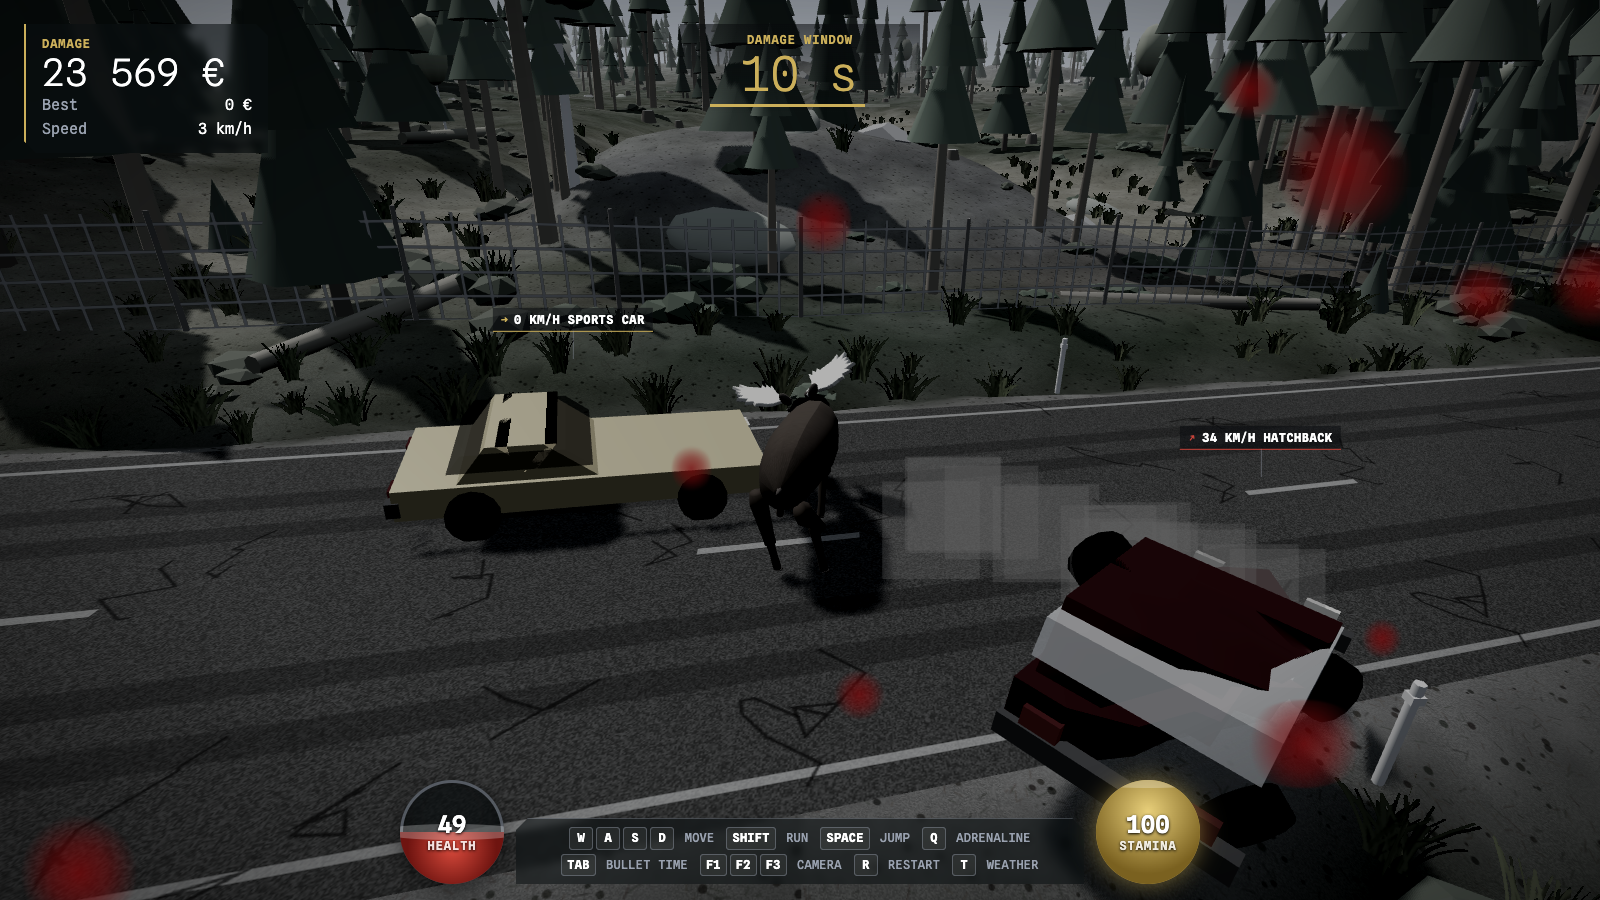
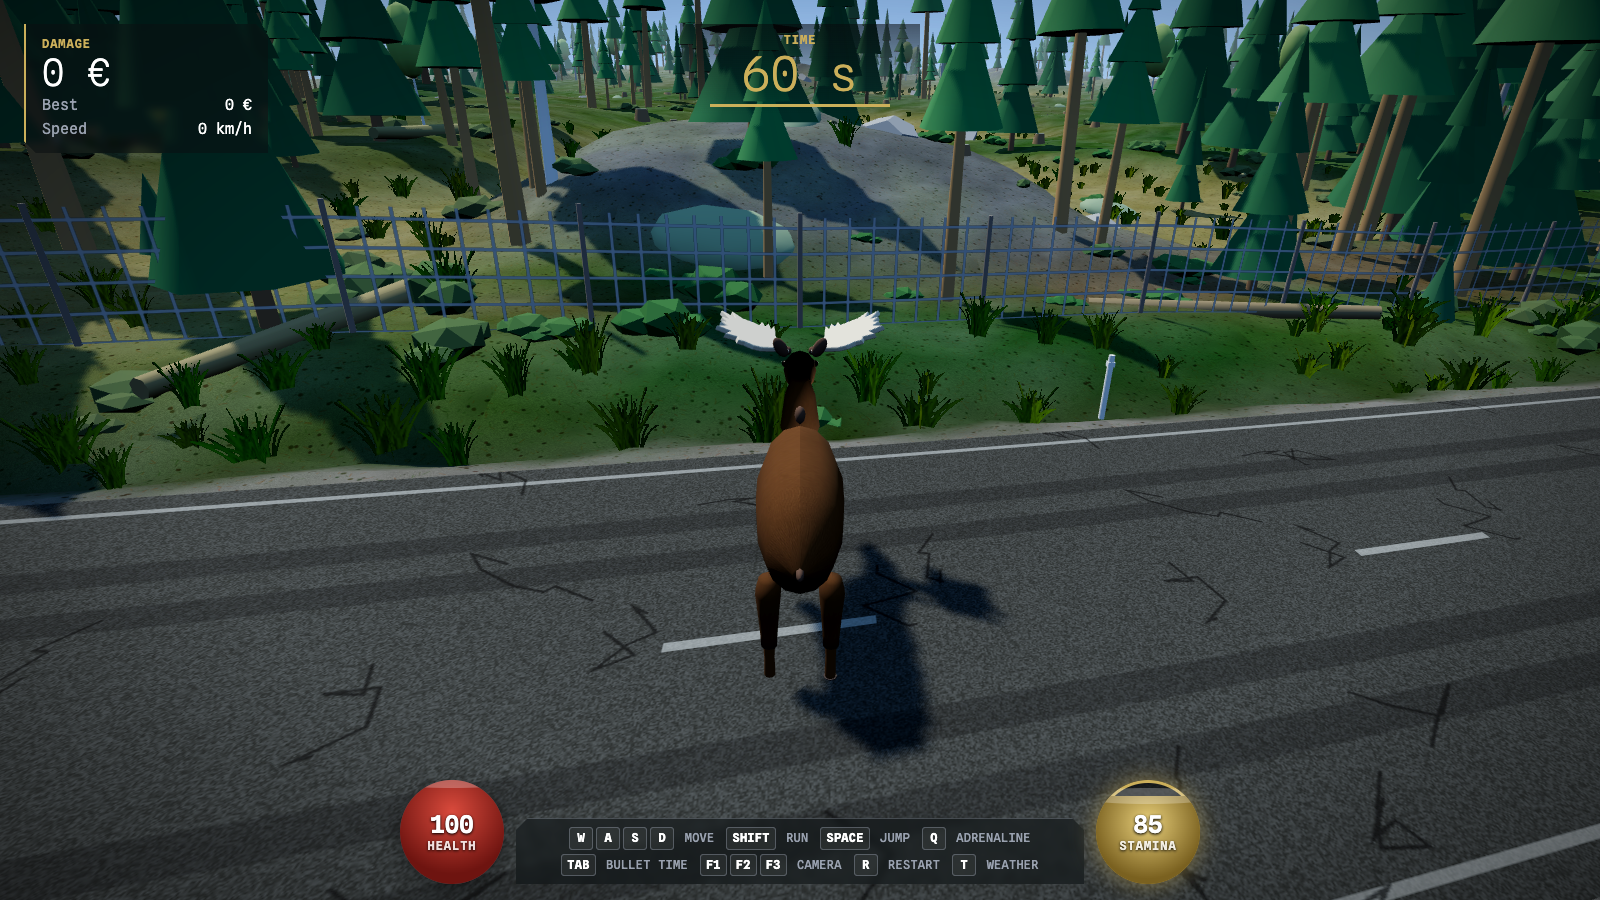
Use a calmer screenshot in README
Claude-Session: https://claude.ai/code/session_011Ug6Pav67mT1vaKHxmGUZR

diff --git a/README.md b/README.md
@@ -1,6 +1,6 @@
 # Elk Dismount
 
-![A moose on road 314, a sports car stopped, a hatchback tumbling](docs/screenshot.png)
+![A bull moose standing on road 314, forest and fence behind](docs/screenshot.png)
 
 Finnish name: Hirviturvat.
 
